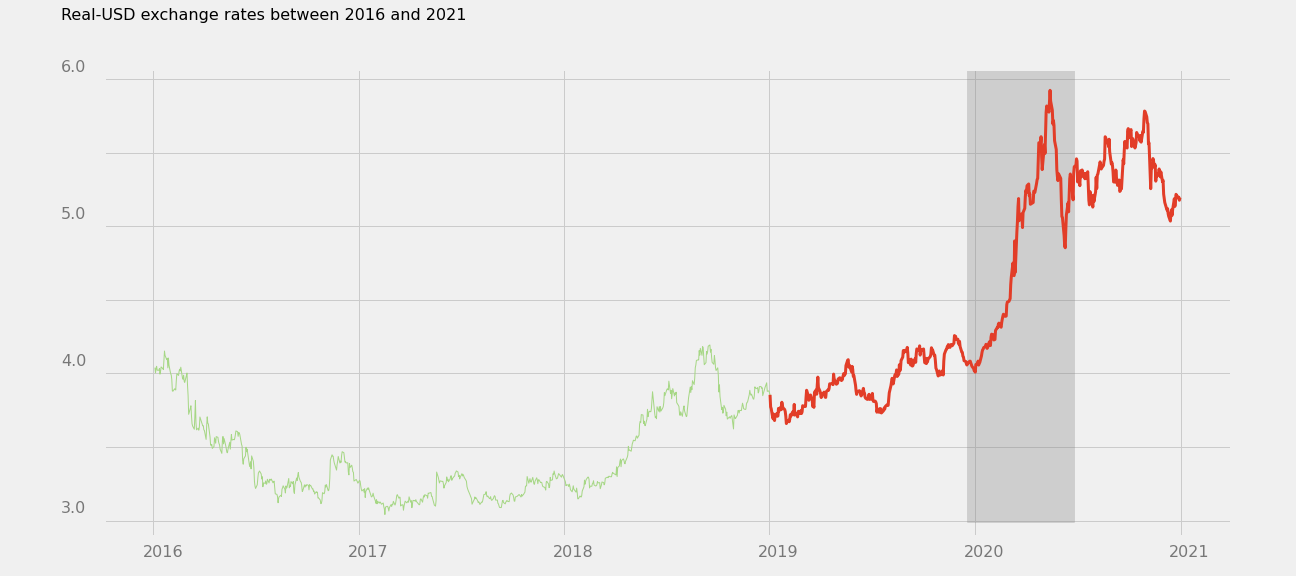
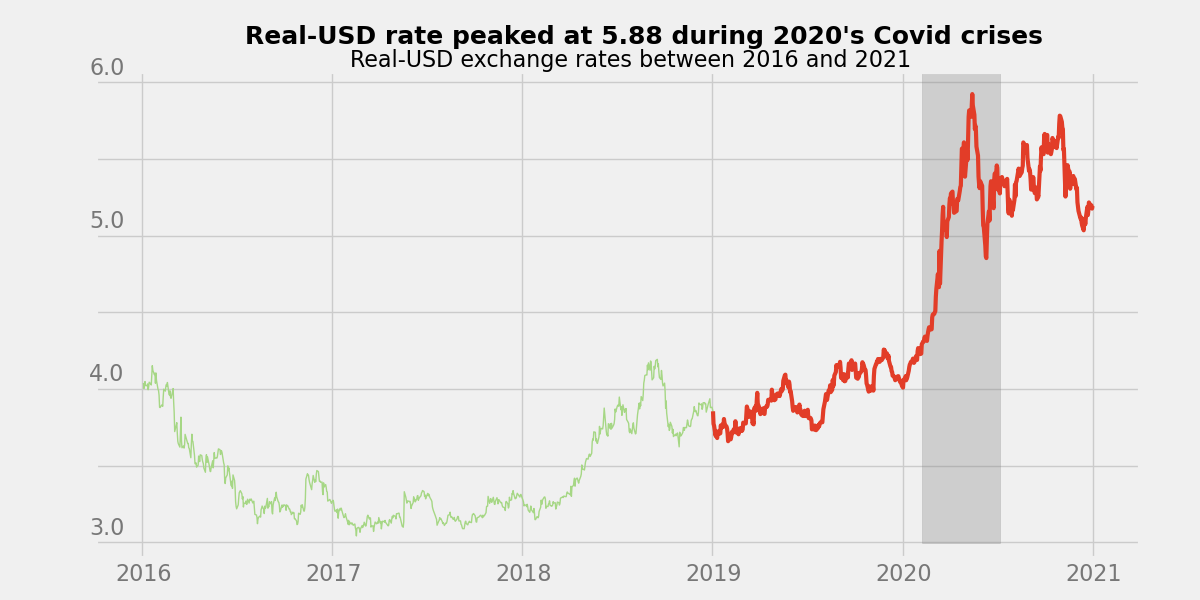
Fixed: plot_graph2 texts works

diff --git a/scripts/plots.py b/scripts/plots.py
@@ -284,7 +284,7 @@ class GeneratePlots():
         self.logger.info("The covid-19 period was plotted.")
 
         # highlihting the peak of the crisis
-        axe.axvspan(xmin=737412.0, xmax=737602.0, ymin=0.03,
+        axe.axvspan(xmin=18300.0, xmax=18450.0, ymin=0.03,
                     alpha=0.3, color='grey')
         self.logger.info("The highlihting to the peak crisis was added.")
 
@@ -293,7 +293,7 @@ class GeneratePlots():
         axe.set_yticklabels([])
         self.logger.info("The separate tick labels was added.")
 
-        x_coord = 735945.0
+        x_coord = 16750.0
         for year in ['2016', '2017', '2018', '2019', '2020', '2021']:
             axe.text(x_coord, 2.75, year, alpha=0.5, fontsize=16)
             x_coord += 365
@@ -301,19 +301,15 @@ class GeneratePlots():
 
         y_coord = 3.05
         for rate in ['3.0', '4.0', '5.0', '6.0']:
-            axe.text(735800.0, y_coord, rate, alpha=0.5, fontsize=16)
+            axe.text(16700, y_coord, rate, alpha=0.5, fontsize=16)
             y_coord += 1.0
         self.logger.info("The y ticks was added.")
 
         # adding a title and a subtitle
-        axe.text(
-            735800.0,
-            6.67,
-            "Real-USD rate peaked at 5.88 during 2020's Covid crises",
-            weight='bold',
-            fontsize=18)
-        axe.text(735800, 6.40, 'Real-USD exchange rates between 2016 and 2021',
-                 size=16)
+        axe.text(17000.0, 6.25, "Real-USD rate peaked at 5.88 during 2020's Covid crises",
+                weight='bold', fontsize=18)
+        axe.text(17200, 6.10, 'Real-USD exchange rates between 2016 and 2021',
+                size=16)
         self.logger.info("The title and subtitle were added.")
 
         # exporting the second graph
